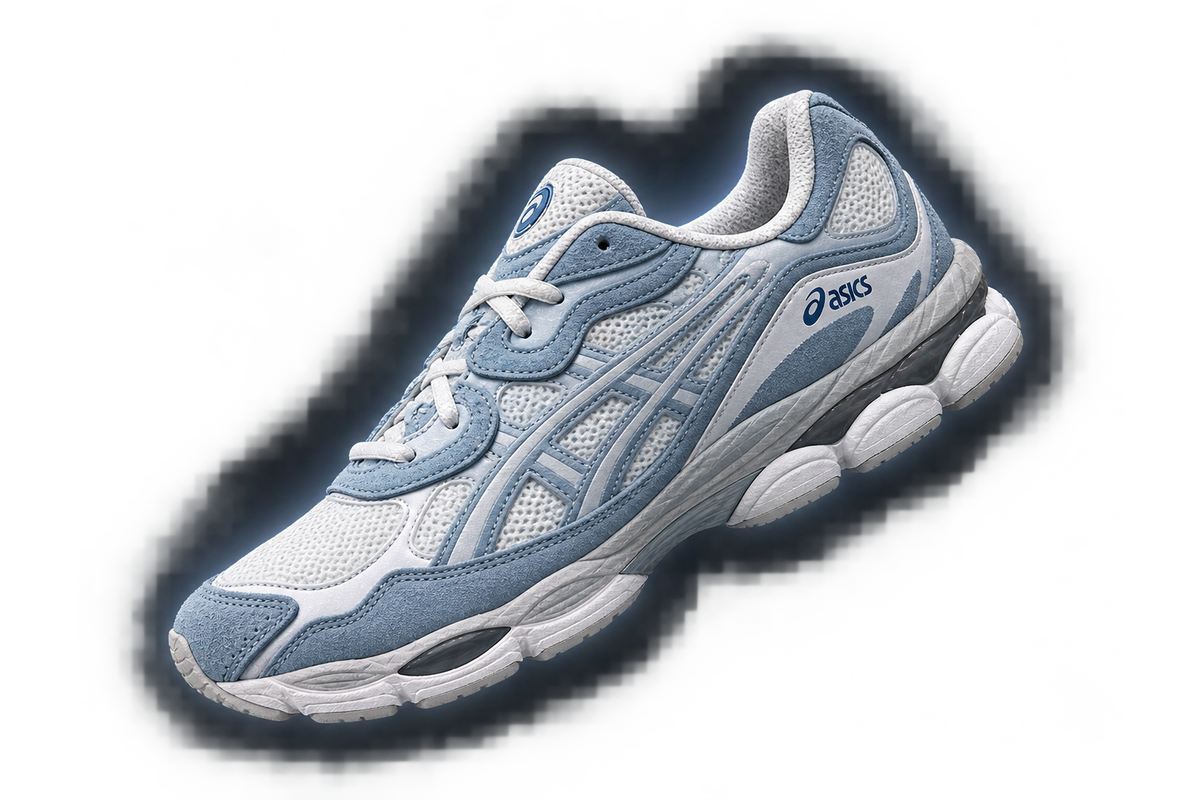
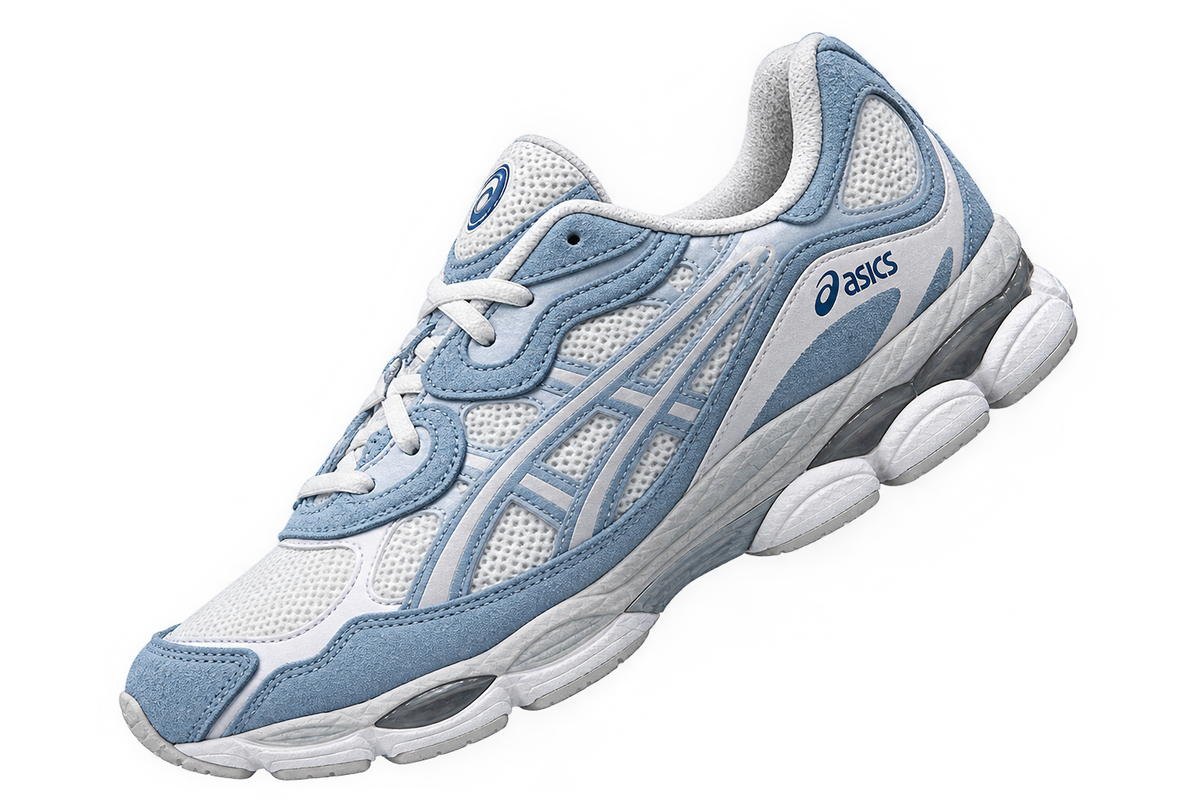
**ASICS COLORIS 2 (bleu) remplacée — mise à jour**
- La pastille bleue du modèle ASICS GEL-NYC affiche désormais la chaussure que vous avez envoyée, dans un cadre et à une taille similaires à ceux des autres coloris.
- Aucun autre élément n'a été modifié : les noms, le prix « À définir », les animations (lévitation, ombre détachée, carrousel vertical, logo Z teinté bleu) et les pages catalogue/panier/favoris fonctionnent comme avant.
- Votre image avec fond noir et halo a été utilisée telle quelle (transparence d'origine conservée, seul un recadrage a été appliqué) — elle se fond bien sur le fond blanc sans fond ni taches visibles.
- J'ai vérifié la page produit COLORIS 2 : chaussure flottante, logo Z bleu, ombre, 3 pastilles, aucun débordement, calibrage de taille comparé aux autres coloris.
- Le parcours panier/wishlist n'a pas été testé de nouveau, car aucun code fonctionnel n'a été changé (seulement remplacement d'image).

Je vous invite à ouvrir la preview : Catalogue → ASICS GEL-NYC → COLORIS 2 pour voir la nouvelle chaussure. Merci de vérifier et me dire si vous constatez des soucis afin que je puisse poursuivre une vérification approfondie si nécessaire.

- Prochaines étapes :
  - Galerie COLORIS 2 : ajouter des photos de profil et de semelle pour cette version bleue dans « Plus de photos »
  - Prix Shopify : connecter les vrais prix pour remplacer « Prix à définir » sur les 7 produits
  - Paiement réel : activer le checkout avec Stripe pour traiter de vraies commandes
[…]

diff --git a/frontend/src/data/products.js b/frontend/src/data/products.js
@@ -81,8 +81,8 @@ export const CATALOG = [
         spotlight: "rgba(0, 0, 0, 0.05)",
         shadowTint: "rgba(10, 10, 10, 0.26)",
         zTint: "rgba(85, 115, 175, 0.16)",
-        scale: 0.643,
-        shiftY: "-1.4%",
+        scale: 0.596,
+        shiftY: "0.3%",
         gallery: gallery(asicsB),
       },
       {

diff --git a/memory/PRD.md b/memory/PRD.md
@@ -37,6 +37,8 @@ Simplify the existing site into a professional fashion ecommerce store called ZE
 - Fixes post-testing (iteration_1.json : 100% backend, 95% frontend) : wishlist Compte en grille 2 colonnes (max-w-4xl rendait les cartes 4-col illisibles, titres clippés) ; CartDrawer total « PRIX BIENTÔT » → « Prix à définir » (harmonisation).
 - Testé e2e par testing agent : catalogue 7 cartes ASICS d'abord, filtres/onglets, carrousel ASICS 1→2→3 (URL + Z-tint + titre), panier desktop+mobile persistant, wishlist (invité bloqué, connecté OK), recherche « asics »/« TN », hero TN, régressions TN OK, mobile 390 sans overflow.
 
+- ASICS COLORIS 2 remplacée (2026-10-03, fork 4 bis) par la nouvelle image fournie (fond noir + halo, export semi-transparent) : asset source utilisé TEL QUEL (alpha préservé — les artefacts de compression sont quasi invisibles sur fond blanc, vérifié par composite), recadrage 3:2 1200×800 uniquement. Recalibrage chaussure sur silhouette composite-blanc (méthode L<230, identique réf TN) : scale 0.596 shiftY 0.3%. Aucun autre changement (nom, swatch, zTint, animations, variantes intacts).
+
 ## Prior Heritage (kept)
 - Four uploaded transparent sneaker PNGs — separate per-variant assets, never combined.
 - Assets: TN CYAN + TN ROUGE images replaced (2026-10-03) with the newly uploaded photos (682x490 / 675x455, transparent, tighter framing); saved under the same filenames (sneaker-aqua.png / sneaker-burgundy.png). Normalization recomputed against the noir/blanche reference: cyan scale 0.601 shiftY 2%, rouge scale 0.557 shiftY 6% — verified identical on-screen shoe size/position in stage (3/2), catalogue cards (3/2, normalization on a wrapper div so hover transforms still work) and cart thumbnails. Carousel re-verified mid-flight with both new images.
